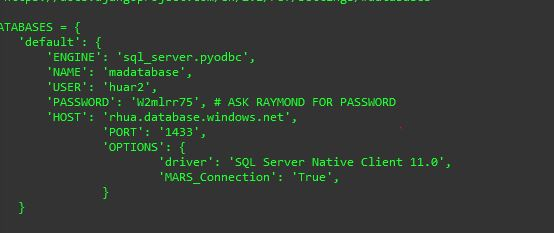
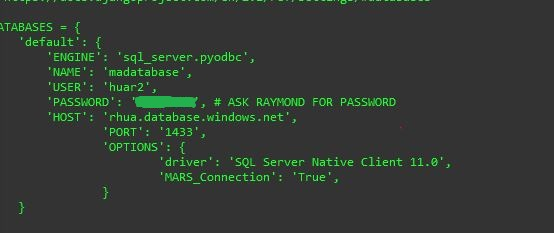
adding

Changed region(s): [[0.2455, 0.3906, 0.3682, 0.4807]]

diff --git a/polytech/polytech.md b/polytech/polytech.md
@@ -3,8 +3,36 @@ layout: page
 title: Polytech BIT services
 ---
 
+I have worked with the Dev Ops project team to keep The BIT service up and running. 
+This was a struggle as the documentation left to us was not of the best, or maybe the documentation needed updated by a previous team that failed to do so or that the some of the steps involved have changed.
 
-I have worked with our project team to keep our services working.
+I will work with rob over the holiday period to restore the media analytic website as this was my doing. While I may have found the problem was that I rebooted the server hoping that it would restart the system however this did not happen as it did not bring the service up. And the documentation on this on the [wiki]( https://gitlab.com/op-bit-platform/OPS-and-Security-Wiki/-/wikis/Media-Analytics/Useful%20Commands).
+
+  <img src="{{ sites.github.url }}/asset/img/ workingThroughGitlab-ci.JPG" alt="" title=""width="1000" />
+
+I have looked into this as the MA site. I have looked at the gitlab-ci.yml file and try and replicate the commands used to serve this site but came into trouble that the ip for the database connection was not working as it should and I showed the result to the team who then looked into other vm servers and found that in fact that it was a rogue serve as this ip address was used as a system administration assignment vm. So that seemed to be a problem but also I can’t use what was in the wiki because the gitlab.op-bit.nz site which we handle is down and can’t access it to try their fix and could not run the runner on the serve as there are certificate errors with gitlab.
+
+A problem is im not sure if I do have the right access/group to the vm sphere and I do not know how to access the gateway and iss server as they are windows based and the other servers are linux/ubuntu I believe which I can access with a public private key and they are located on the gitlab.com. I am a guest and can not change the wiki on the op bit platform
+
+
+
+
+
+
+
+
+
+
+
+
+
+
+
+
+
+
+
+I have worked with our project team to keep our services working. While this was difficult as documentation for creating and placing the neces
 
 I did work on eliminating the git-lab server unessasary ticketing while I did not fix the issue I think I had stopped that particular check from happening and that seemed to stop the tickets but also mathew did update the amount of ram for that server
 
@@ -12,4 +40,7 @@ I did work on eliminating the git-lab server unessasary ticketing while I did no
 Working with Media-analytics site
 
 I added a code and did not no how to restart the website so i restarted the machine. while i thought that would bring this back up it did not. I have been searching the web and through the bash history of the ma server and have found some commands used and found where the nginx is looking for the website
+
+
+
 

diff --git a/AWS/aws.md b/AWS/aws.md
@@ -8,7 +8,8 @@ title: Amazon Web Services
 Run command 
 aws ssm send-command --document-name "c13767a134853u652657t1w544713203643-InstallDashboardApp-1VI105892ZN6V" --document-version "1" --targets '[{"Key":"InstanceIds","Values":["i-03395ad82f47a6391"]}]' --parameters '{}' --timeout-seconds 600 --max-concurrency "50" --max-errors "0" --region us-east-1
 
-  <img src="/portfolio/images/awsListOfUsers.png" alt="" title="" width="1000" />
+  <img src="{{ sites.github.url }}/asset/img/awsListOfUsers.png" alt="" title=""width="1000" />
 
+I do wish that i could have done more with this over the semester it was hard to find the motivation to do this as well as my other subjects.
 
 

diff --git a/_posts/2017-01-01-welcome-to-portfolio.md b/_posts/2017-01-01-welcome-to-portfolio.md
@@ -10,7 +10,8 @@ image: balclutha.JPG
 this is were i spent most of my time than any other part.
 
 [Amazon web services]({{site.github.url }}/AWS/aws)
-I have not completed my goal for this as i do want to get my certifciate for this.
+I have not completed my goal for this as i do want to get my certificate for this.
 
 [Raspberry Pi]({{site.github.url }}/raspberry/raspberry)
+I have let my team mates down on this aspect of not contirbuting as much as i have 
 

diff --git a/raspberry/raspberry.md b/raspberry/raspberry.md
@@ -3,5 +3,7 @@ layout: page
 title: Raspberry pi 
 ---
  
+I Have let my team mates down on the group work as i have been tied up looking into the media analytic server and prioritizing that over this because that is a live website that the polytech host on the op-bit.nz domain.
 
+While i did have access i did remote into them. I did talk to the group about certain aspects of it.
 
